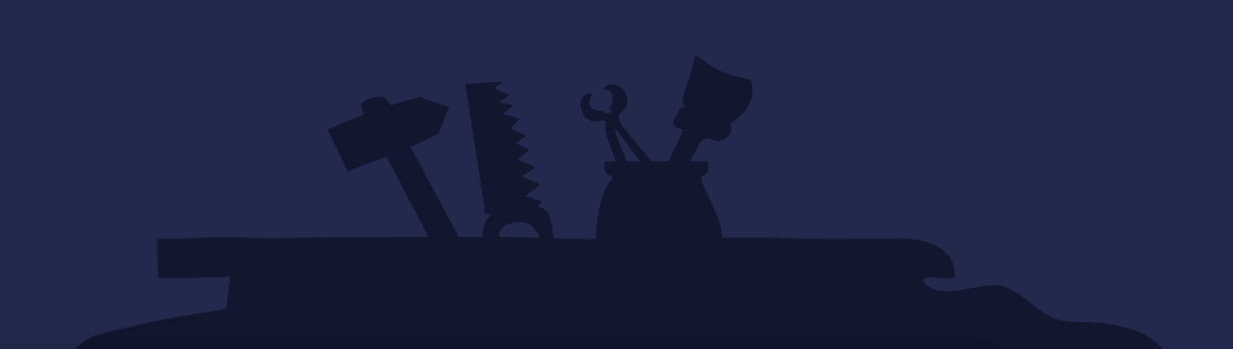
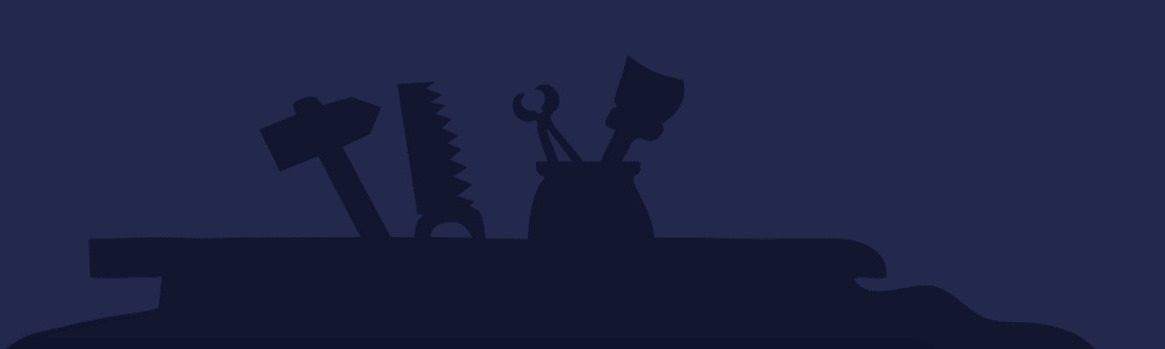
starting proportions

diff --git a/index.css b/index.css
@@ -1,66 +1,99 @@
 body {
-  background-color: #23294c;
+  /*background-color: #23294c;*/
   font-family: 'Gill Sans', 'Gill Sans MT', Calibri, 'Trebuchet MS', sans-serif;
   display: inline-block;
 }
 
 main {
-  margin-left: calc((140% - 1350px) / 2);
-  margin-right: calc((140% - 1350px) / 2);
+  background-color: #23294c;
   object-fit: contain;
+  width: 1050px;
+  height: 530px;
+  margin-left: 180px;
+  margin-top: 40px;
 }
 
 #left {
-  display: inline-block;
   height: 100%;
-  width: 40%;
+  width: 45%;
   float: left;
+  background-color: #23294c;
+  object-fit: contain;
+  height: 530px;
 }
 
 #right {
-  display: inline-block;
   height: 100%;
-  width: 60%;
+  width: 55%;
   float: right;
+  background-color: #23294c;
+  object-fit: contain;
+  height: 530px;
 }
 
 #brick_wall {
-  display: inline-block;
   object-fit: contain;
-  width: 100%;
-  margin-top: 60px;
+  width: 65%;
+  margin-top: 65px;
+  float: right;
+  margin-right: 15px;
 }
 
 #engineer {
-  display: inline-block;
   object-fit: contain;
-  width: 80%;
+  width: 60%;
+  margin-top: 2px;
+  float: right;
+  margin-right: 20px;
 }
 
 #nr404 {
   display: inline-block;
   object-fit: contain;
-  width: 100%;
+  width: 85%;
+  margin-top: 14px;
+}
+
+.text {
+  margin-left: 30px;
 }
 
 h1 {
   display: inline-block;
   color: #ffc91b;
   font-weight: lighter;
-  font-size: 50px;
+  font-size: 38px;
   margin: 0;
+  object-fit: contain;
 }
 
 p {
   display: inline-block;
   color: #fdfefe;
-  font-size: 20px;
+  font-size: 15px;
   margin-top: 0;
   font-weight: lighter;
+  object-fit: contain;
+  width: 75%;
+}
+
+button {
+  display: block;
+  object-fit: contain;
+  background-color: #00a8e4;
+  color: #fdfefe;
+  padding: 8px 30px 8px 30px;
+  /*every word starts with capital letter*/
+  border-radius: 3px;
+  border: none;
+  font-size: 14px;
+  box-shadow: 0px 2px 2px #12162e;
+  margin-bottom: 5px;
 }
 
 #tools {
   display: inline-block;
   object-fit: contain;
-  width: 100%;
+  width: 80%;
+  margin-left: 15px;
 }

diff --git a/index.html b/index.html
@@ -17,9 +17,11 @@
         </div>
         <div id="right">
             <img id="nr404" src="./img/404nrblue.jpg" alt="404" />
-            <h1>Something is wrong</h1>
-            <p>The page you are looking for was moved, removed, renamed or might never existed.</p>
-            <button>Go home</button>
+            <div class="text">
+                <h1>Something is wrong</h1>
+                <p>The page you are looking for was moved, removed, renamed or might never existed.</p>
+                <button>Go Home</button>
+            </div>
             <img id="tools" src="./img/tools.jpg" alt="tools" />
         </div>
     </main>
